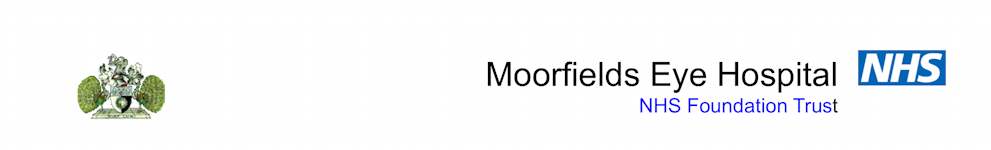
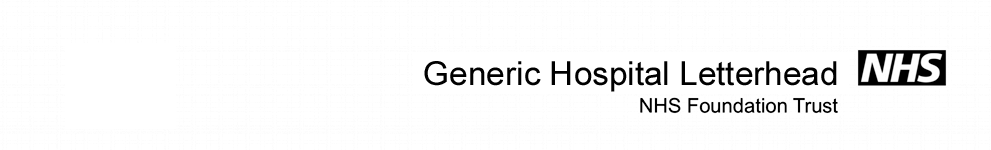
Minor changes to presentation of booking letter and commenting out of currently unused code.

Changed region(s): [[0.4238, 0.32, 0.9687, 0.6133], [0.0605, 0.3733, 0.1816, 0.8], [0.6357, 0.64, 0.8476, 0.7733]]

diff --git a/css/elements/ElementLetterOut/1.css b/css/elements/ElementLetterOut/1.css
@@ -1,57 +1,21 @@
-#ElementLetterOut_layout {
-        background-color: white;
-        margin-left: 0px;
-        margin-top: 0px;
-        background-repeat: no-repeat;
-        width:1000px;
-}
+#ElementLetterOut_layout {display:none;}
 
-#ElementLetterOut_layout > p {
-        color: #191919;
-        font-size: 14pt;
-        font-family: sans-serif, Helvetica, Verdana, Arial;
-        margin-left: 60px;
-        margin-right: 60px;
-}
+#ElementLetterOut_layout > p {display:none;}
 
-p.ElementLetterOut_to {
-        padding-top: 140px;
-}
+p.ElementLetterOut_to {display:none;}
 
-p.ElementLetterOut_date {
-        padding-top: 3em;
-}
+p.ElementLetterOut_date {display:none;}
 
-p.ElementLetterOut_dear {
-        padding-top: 2em;
-}
+p.ElementLetterOut_dear {display:none;}
 
-p.ElementLetterOut_re {
-        padding-top: 1.2em;
-        font-weight: bold;
-}
+p.ElementLetterOut_re {display:none;}
 
-p.ElementLetterOut_text {
-        padding-top: 1.2em;
-}
+p.ElementLetterOut_text {display:none;}
 
-p.ElementLetterOut_from {
-        padding-top: 1.4em;
-}
+p.ElementLetterOut_from {display:none;}
 
-p.ElementLetterOut_cc {
-        padding-top: 2em;
-}
+p.ElementLetterOut_cc {display:none;}
 
-div.ElementLetterOut_siteDetails {
-	position: absolute;
-        font-size: 14pt;
-        font-family: sans-serif, Helvetica, Verdana, Arial;
-        margin-left: 740px;
-        margin-top: 20px;
-	width: 200px;
-}
+div.ElementLetterOut_siteDetails {display:none;}
 
-span.page_break {
-	display: none;
-}
+span.page_break {display:none;}

diff --git a/protected/views/booking/_clinic.php b/protected/views/booking/_clinic.php
@@ -1,4 +1,6 @@
 <?php
+
+// @todo - include the referral date below.
 Yii::app()->clientScript->scriptMap['jquery.js'] = false;
 $firm = $operation->event->episode->firm; ?>
 <div class="view">
@@ -19,10 +21,10 @@ if (!empty($operation->booking)) {
 </div>
 <?php	
 } ?>
-<div class="view">
+<!--div class="view">
 	<strong>Referral date:</strong>
-</div>
-<div class="view">
+</div-->
+<!--div class="view">
 	<strong>Clinic date:</strong>
 </div>
 <div class="view">
@@ -30,4 +32,4 @@ if (!empty($operation->booking)) {
 </div>
 <div class="view">
 	<strong>Diagnosis:</strong>
-</div>
+</div-->

diff --git a/protected/services/ReferralService.php b/protected/services/ReferralService.php
@@ -14,7 +14,7 @@ class ReferralService
 			foreach ($results as $pasReferral) {
 				$patient = Patient::model()->find('pas_key = ?', array($pasReferral->X_CN));
 
-// @todo what's going on here?
+// @todo what's going on here? Specialties are not as they should be in PAS so findByPk(1) has been left here for now.
 				//$specialty = Specialty::model()->find('ref_spec = ?', array($pasReferral->REFSPEC));
 				$specialty = Specialty::model()->findByPk(1);
 

diff --git a/protected/views/clinical/eventTypeTemplates/view/25.php b/protected/views/clinical/eventTypeTemplates/view/25.php
@@ -145,7 +145,7 @@ Should you no longer require treatment, please let me know as soon as possible.
 	</p>
 
         <p>Yours sincerely,<br /><br /><br /><br />Admissions Officer</p>
-<span class="page_break"></span>
+<!--span class="page_break"></span-->
 <?php
 }
 ?>
